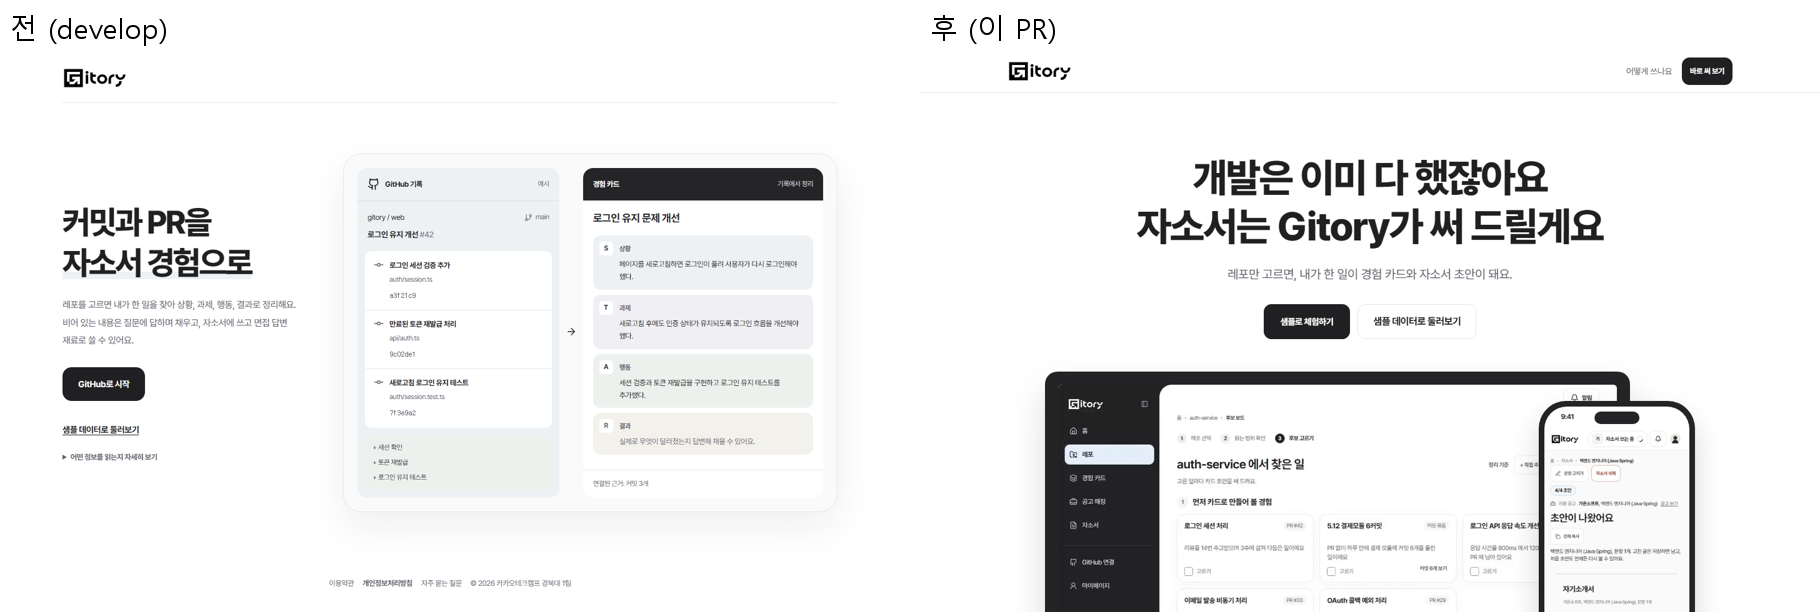
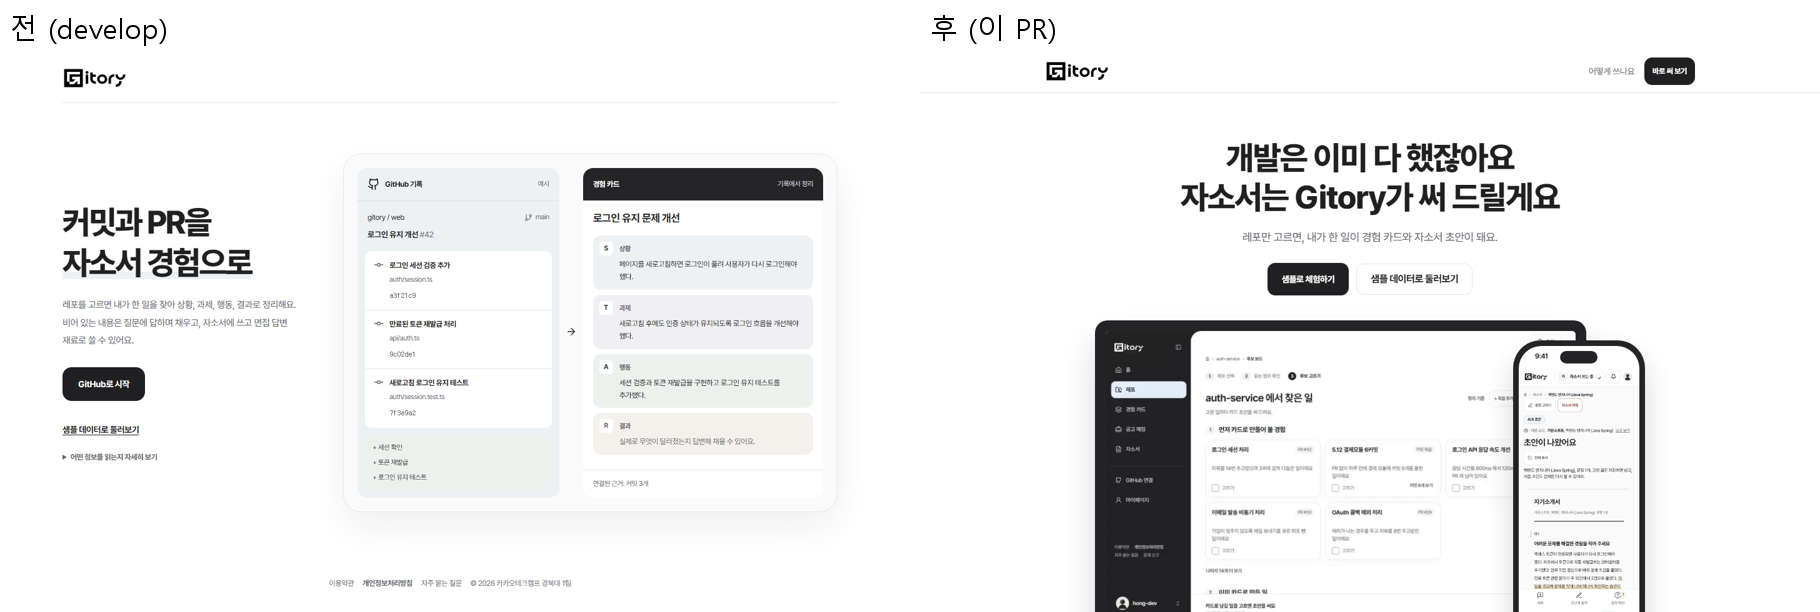
fix(frontend): 첫 화면 크기를 한눈에 들어오게 줄이고 강조색을 회색 계열로 통일
- 본문 폭 1200 → 1080px, 제목과 본문 글자, 버튼, 구간 여백을 약 80% 로 줄임
- 채워지는 문장은 150vh 동안 머물고 글자를 46px 로
- 공감 카드는 글을 세로 가운데에 두고 높이를 맞춤
- 경험 카드 단계의 하늘색 아이콘 칸을 다른 칸과 같은 회색으로

Changed region(s): [[0.5538, 0.2173, 0.9538, 1.0], [0.8615, 0.0931, 0.9538, 0.1552], [0.5538, 0.0931, 0.6154, 0.1552]]

diff --git a/frontend/src/styles/landing-scroll.css b/frontend/src/styles/landing-scroll.css
@@ -3,7 +3,7 @@
  * 첫 화면은 사용자가 다크 테마를 켜 두어도 밝은 테마로 보인다(LandingPage 가 열려 있는 동안 data-theme 을 뗀다).
  */
 .landing.lp { display: block; min-height: 100vh; padding: 0; gap: 0; background: var(--bg-paper); color: var(--text-primary); overflow-x: clip; word-break: keep-all; }
-.lp .lp-wrap { width: 100%; max-width: 1200px; margin-inline: auto; padding-inline: 20px; }
+.lp .lp-wrap { width: 100%; max-width: 1080px; margin-inline: auto; padding-inline: 20px; }
 .lp-center { text-align: center; }
 
 /* 상단 바: 스크롤하면 옅은 그림자 */
@@ -18,22 +18,22 @@
 .lp-top__link:hover { color: var(--text-primary); }
 
 /* 히어로 */
-.lp .lp-hero { display: block; width: 100%; max-width: none; padding: clamp(56px, 8vw, 96px) 0 clamp(40px, 5vw, 64px); background: var(--bg-surface); border-bottom: 1px solid var(--border-default); grid-template-columns: none; }
+.lp .lp-hero { display: block; width: 100%; max-width: none; padding: clamp(48px, 6vw, 72px) 0 clamp(36px, 4vw, 52px); background: var(--bg-surface); border-bottom: 1px solid var(--border-default); grid-template-columns: none; }
 .lp-hero__in { display: flex; flex-direction: column; align-items: center; text-align: center; }
-.lp .lp-h1 { margin: 0; max-width: none; font-size: clamp(30px, 6.2vw, 64px); line-height: 1.22; font-weight: var(--weight-heavy); letter-spacing: -.035em; text-align: center; text-wrap: balance; }
+.lp .lp-h1 { margin: 0; max-width: none; font-size: clamp(28px, 4.4vw, 52px); line-height: 1.22; font-weight: var(--weight-heavy); letter-spacing: -.035em; text-align: center; text-wrap: balance; }
 .lp .lp-h1 > span { display: block; text-decoration: none; }
 .lp-hword { display: inline-block; animation: lp-word .7s cubic-bezier(.2, .7, .2, 1) both; animation-delay: calc(var(--i) * 70ms + 120ms); }
 .landing[data-intro="playing"] .lp-hword, .landing[data-intro="playing"] .lp-hero__stage { animation-play-state: paused; }
-.lp .lp-lead { max-width: 680px; margin: 22px auto 0; color: var(--text-secondary); font-size: clamp(16px, 1.9vw, 20px); line-height: 1.6; text-wrap: balance; }
-.lp .lp-actions { margin-top: 32px; display: flex; flex-wrap: wrap; justify-content: center; align-items: center; gap: 12px; }
-.lp .lp-actions .btn { min-height: 56px; padding-inline: 26px; border-radius: 12px; }
+.lp .lp-lead { max-width: 640px; margin: 18px auto 0; color: var(--text-secondary); font-size: clamp(16px, 1.5vw, 18px); line-height: 1.6; text-wrap: balance; }
+.lp .lp-actions { margin-top: 26px; display: flex; flex-wrap: wrap; justify-content: center; align-items: center; gap: 12px; }
+.lp .lp-actions .btn { min-height: 50px; padding-inline: 22px; border-radius: 12px; }
 .lp .lp-actions .sample-link { margin: 0; }
-.lp .lp-actions .sample-link__btn { min-height: 56px; padding: 0 24px; border: 1px solid var(--border-default); border-radius: 12px; background: var(--bg-surface); color: var(--text-primary); font-size: 16px; font-weight: var(--weight-bold); text-decoration: none; cursor: pointer; }
+.lp .lp-actions .sample-link__btn { min-height: 50px; padding: 0 22px; border: 1px solid var(--border-default); border-radius: 12px; background: var(--bg-surface); color: var(--text-primary); font-size: 16px; font-weight: var(--weight-bold); text-decoration: none; cursor: pointer; }
 .lp .lp-actions .sample-link__btn:hover { background: var(--bg-subtle); }
 .lp .landing-notice { margin: 16px 0 0; }
 .lp .lp-perm { margin-top: 14px; color: var(--text-secondary); font-size: 14px; text-align: left; }
 .lp .lp-perm summary { cursor: pointer; text-align: center; padding: 8px; }
-.lp-hero__stage { position: relative; width: 100%; max-width: 1040px; margin-top: 52px; padding-right: 9%; animation: lp-rise 1s cubic-bezier(.2, .7, .2, 1) .55s both; }
+.lp-hero__stage { position: relative; width: 100%; max-width: 880px; margin-top: 40px; padding-right: 9%; animation: lp-rise 1s cubic-bezier(.2, .7, .2, 1) .55s both; }
 .lp-hero__phone { position: absolute; right: 0; bottom: 0; width: 24%; }
 
 /* 기기 틀 */
@@ -51,47 +51,46 @@
 .lp-phone__home::after { content: ''; width: 34%; height: 4px; border-radius: 999px; background: var(--text-primary); }
 
 /* 흐르는 띠 */
-.lp-strip { overflow: hidden; padding: 20px 0; background: var(--bg-surface); border-bottom: 1px solid var(--border-default); }
+.lp-strip { overflow: hidden; padding: 16px 0; background: var(--bg-surface); border-bottom: 1px solid var(--border-default); }
 .lp-strip__track { display: flex; width: max-content; animation: lp-marquee 28s linear infinite; }
-.lp-strip__row { display: flex; gap: 40px; padding-right: 40px; white-space: nowrap; font-size: clamp(16px, 2vw, 20px); font-weight: var(--weight-bold); }
+.lp-strip__row { display: flex; gap: 36px; padding-right: 36px; white-space: nowrap; font-size: clamp(15px, 1.5vw, 17px); font-weight: var(--weight-bold); }
 .lp-strip__row span { display: inline-flex; align-items: center; gap: 40px; }
 .lp-strip__row i { width: 10px; height: 10px; border-radius: 50%; background: var(--accent-decoration); }
 
 /* 채워지는 문장: PC 는 화면에 잠깐 머물고, 휴대폰은 지나가며 채운다 */
-.lp-ink { position: relative; height: 160vh; }
+.lp-ink { position: relative; height: 150vh; }
 .lp-ink__stage { position: sticky; top: 0; height: 100vh; display: flex; align-items: center; padding-inline: 20px; }
-.lp-ink__text { max-width: 1200px; margin: 0 auto; text-align: center; font-size: clamp(28px, 4.4vw, 60px); line-height: 1.3; font-weight: var(--weight-heavy); letter-spacing: -.035em; }
+.lp-ink__text { max-width: 1000px; margin: 0 auto; text-align: center; font-size: clamp(26px, 3.6vw, 46px); line-height: 1.3; font-weight: var(--weight-heavy); letter-spacing: -.035em; }
 .lp-ink__line { display: block; }
 .lp[data-motion="on"] [data-ink-part] { color: color-mix(in srgb, var(--text-primary) 20%, transparent); transition: color .35s ease-out; }
 .lp[data-motion="on"] [data-ink-part][data-inked] { color: var(--text-primary); }
 
 /* 공통 구간 */
-.lp-sec { padding: clamp(80px, 10vw, 120px) 0; }
-.lp-eyebrow { margin: 0; color: var(--text-secondary); font-size: 16px; font-weight: var(--weight-bold); }
-.lp-h2 { margin: 14px 0 0; font-size: clamp(28px, 4.4vw, 46px); line-height: 1.3; font-weight: var(--weight-heavy); letter-spacing: -.035em; text-wrap: balance; }
-.lp-h3 { margin: 18px 0 0; font-size: clamp(26px, 3.6vw, 38px); line-height: 1.32; font-weight: var(--weight-heavy); letter-spacing: -.035em; }
+.lp-sec { padding: clamp(64px, 7vw, 96px) 0; }
+.lp-eyebrow { margin: 0; color: var(--text-secondary); font-size: 14px; font-weight: var(--weight-bold); }
+.lp-h2 { margin: 14px 0 0; font-size: clamp(26px, 3.4vw, 38px); line-height: 1.3; font-weight: var(--weight-heavy); letter-spacing: -.035em; text-wrap: balance; }
+.lp-h3 { margin: 18px 0 0; font-size: clamp(24px, 2.7vw, 30px); line-height: 1.32; font-weight: var(--weight-heavy); letter-spacing: -.035em; }
 .lp-line { display: block; }
-.lp-body { margin: 18px 0 0; color: var(--text-secondary); font-size: clamp(16px, 1.7vw, 20px); line-height: 1.65; text-wrap: pretty; }
-.lp-grid3 { margin-top: clamp(40px, 6vw, 56px); display: grid; grid-template-columns: repeat(3, minmax(0, 1fr)); gap: 16px; }
-.lp-quote { padding: 32px 28px; text-align: center; border: 1px solid var(--border-default); border-radius: var(--radius-xl); background: var(--bg-surface); font-size: clamp(20px, 2.4vw, 26px); line-height: 1.4; font-weight: var(--weight-heavy); }
-.lp-quote small { display: block; margin-top: 14px; color: var(--text-on-feature-muted); font-size: 16px; font-weight: var(--weight-regular); }
+.lp-body { margin: 14px 0 0; color: var(--text-secondary); font-size: clamp(15px, 1.3vw, 17px); line-height: 1.65; text-wrap: pretty; }
+.lp-grid3 { margin-top: clamp(28px, 4vw, 40px); display: grid; grid-template-columns: repeat(3, minmax(0, 1fr)); gap: 16px; }
+.lp-quote { display: flex; flex-direction: column; justify-content: center; min-height: 150px; padding: 24px; text-align: center; border: 1px solid var(--border-default); border-radius: var(--radius-xl); background: var(--bg-surface); font-size: clamp(18px, 1.8vw, 21px); line-height: 1.4; font-weight: var(--weight-heavy); }
+.lp-quote small { display: block; margin-top: 10px; color: var(--text-on-feature-muted); font-size: 14px; font-weight: var(--weight-regular); }
 .lp-quote--ink { border-color: transparent; background: var(--bg-feature); color: var(--text-on-feature); }
 
 /* 01~05 */
 .lp-how { padding-bottom: 24px; }
-.lp-step { padding: clamp(40px, 6vw, 64px) 0; }
-.lp-step__in { display: flex; flex-wrap: wrap; align-items: center; gap: clamp(28px, 5vw, 56px); }
+.lp-step { padding: clamp(28px, 4vw, 44px) 0; }
+.lp-step__in { display: flex; flex-wrap: wrap; align-items: center; gap: clamp(28px, 4.5vw, 56px); }
 .lp-step--flip .lp-step__in { flex-direction: row-reverse; }
 .lp-step__copy { flex: 1 1 320px; min-width: 0; }
-.lp-step__media { flex: 1.5 1 520px; min-width: 0; }
-.lp-chip { display: inline-block; margin: 0; padding: 6px 12px; border-radius: 999px; background: var(--bg-ink-solid); color: var(--text-on-ink); font-size: 14px; font-weight: var(--weight-bold); white-space: pre; }
+.lp-step__media { flex: 1.4 1 480px; min-width: 0; }
+.lp-chip { display: inline-block; margin: 0; padding: 5px 11px; border-radius: 999px; background: var(--bg-ink-solid); color: var(--text-on-ink); font-size: 13px; font-weight: var(--weight-bold); white-space: pre; }
 .lp-pane { display: flex; justify-content: center; padding: 44px 20px 0; border-radius: var(--radius-xl); background: var(--bg-subtle); overflow: hidden; }
-.lp-pane--accent { background: var(--bg-accent); }
 .lp-pane .lp-phone { width: min(72%, 340px); margin-bottom: -40px; }
 .lp-callout { margin-top: 26px; display: flex; align-items: center; gap: 14px; padding: 18px 20px; border: 1px solid var(--border-default); border-radius: var(--radius-lg); background: var(--bg-surface); }
 .lp-callout p { margin: 0; font-size: 16px; font-weight: var(--weight-bold); line-height: 1.5; }
 .lp-callout p span { color: var(--text-secondary); font-weight: var(--weight-regular); }
-.lp-callout__icon { flex: none; width: 40px; height: 40px; display: grid; place-items: center; border-radius: var(--radius-md); background: var(--bg-accent); color: var(--border-accent); }
+.lp-callout__icon { flex: none; width: 40px; height: 40px; display: grid; place-items: center; border-radius: var(--radius-md); background: var(--bg-subtle); color: var(--text-primary); }
 .lp-chat { margin-top: 26px; max-width: 420px; display: flex; flex-direction: column; gap: 10px; }
 .lp-chat p { margin: 0; padding: 13px 18px; font-size: 16px; font-weight: var(--weight-bold); }
 .lp-chat__ask { align-self: flex-start; border: 1px solid var(--border-default); border-radius: 16px 16px 16px 4px; background: var(--bg-surface); }
@@ -106,22 +105,22 @@
 /* AI 채팅과 비교 */
 .lp-compare { background: var(--bg-feature); color: var(--text-on-feature); }
 .lp-compare .lp-eyebrow { color: var(--accent-decoration); }
-.lp-compare__cols { margin-top: clamp(40px, 6vw, 64px); display: grid; grid-template-columns: repeat(2, minmax(0, 1fr)); gap: 16px; }
+.lp-compare__cols { margin-top: clamp(28px, 4vw, 44px); display: grid; grid-template-columns: repeat(2, minmax(0, 1fr)); gap: 16px; }
 .lp-compare__col { padding: clamp(24px, 3vw, 36px); border-radius: var(--radius-xl); background: color-mix(in srgb, var(--text-on-feature) 6%, transparent); }
 .lp-compare__col--ours { background: var(--bg-surface); color: var(--text-primary); }
 .lp-compare__label { margin: 0; color: var(--text-on-feature-muted); font-size: 16px; font-weight: var(--weight-bold); }
 .lp-compare__col--ours .lp-compare__label { color: var(--text-secondary); }
 .lp-compare ol, .lp-compare ul { margin: 22px 0 0; padding: 0; list-style: none; display: flex; flex-direction: column; gap: 14px; }
-.lp-compare li { display: flex; gap: 12px; align-items: flex-start; font-size: clamp(16px, 1.6vw, 18px); line-height: 1.5; }
+.lp-compare li { display: flex; gap: 12px; align-items: flex-start; font-size: 16px; line-height: 1.5; }
 .lp-num, .lp-check { flex: none; width: 28px; height: 28px; display: grid; place-items: center; border-radius: 50%; font-size: 14px; font-weight: var(--weight-bold); }
 .lp-num { background: color-mix(in srgb, var(--text-on-feature) 12%, transparent); color: var(--text-on-feature-muted); }
 .lp-check { background: var(--bg-ink-solid); color: var(--text-on-ink); }
 .lp-compare__col--ours li { font-weight: var(--weight-bold); }
 
 /* 시작 권유 */
-.lp-closing { padding-top: clamp(80px, 10vw, 120px); padding-bottom: clamp(64px, 8vw, 96px); }
+.lp-closing { padding-top: clamp(64px, 7vw, 96px); padding-bottom: clamp(56px, 6vw, 80px); }
 .lp-closing__box { display: flex; flex-wrap: wrap; align-items: center; overflow: hidden; border-radius: 24px; background: var(--bg-feature); color: var(--text-on-feature); }
-.lp-closing__copy { flex: 1.2 1 440px; min-width: 0; padding: clamp(40px, 5vw, 64px); }
+.lp-closing__copy { flex: 1.2 1 420px; min-width: 0; padding: clamp(36px, 4vw, 52px); }
 .lp-closing .lp-h2 { margin: 0; }
 .lp-closing .lp-body { color: var(--text-on-feature-muted); }
 .lp-closing .lp-actions { justify-content: flex-start; }

diff --git a/frontend/docs/2026-11-11-LANDING_SCROLL.md b/frontend/docs/2026-11-11-LANDING_SCROLL.md
@@ -7,7 +7,7 @@
 
 1. **히어로**(가운데 정렬): "개발은 이미 다 했잖아요 / 자소서는 Gitory가 써 드릴게요". 노트북 틀 안에서 실제 화면 시연 영상(16초, 후보 고르기 → 경험 카드 → 공고 → 자소서)이 반복되고 폰 화면이 겹친다. 휴대폰 폭에서는 노트북을 빼고 폰 하나만 크게.
 2. **흐르는 띠**: 내가 한 일 찾기, 경험 정리, 자소서 초안, 공고 맞춰 보기, 면접 대비, 로그인 없이 체험.
-3. **채워지는 문장**(가운데 정렬, PC 세 줄): 스크롤한 만큼 회색 구절이 검게 채워진다. PC는 160vh 동안 화면에 머물고(예전 시안 220vh는 막힌 느낌이라 줄임), 휴대폰은 고정 없이 지나가며 채운다.
+3. **채워지는 문장**(가운데 정렬, PC 세 줄): 스크롤한 만큼 회색 구절이 검게 채워진다. PC는 150vh 동안 화면에 머물고(예전 시안 220vh는 막힌 느낌이라 줄임), 휴대폰은 고정 없이 지나가며 채운다.
 4. **공감**: "이 프로젝트에서 내가 뭘 했더라?", "이걸 왜 이렇게 구현했었지?", "답은 이미 내 커밋에 있어요".
 5. **01~05**: 레포 고르기, 경험 카드, 되묻기, 공고 매칭, 자소서. 설명은 한 문장씩. PC 우선 서비스라 다섯 단계 모두 PC 화면(노트북 틀)으로 보여 준다.
 6. **AI 채팅과 다른 점**: "AI 채팅으로 쓰면"(직접 찾고 붙여 넣고 걸러 내고 대조) 대 "Gitory로 쓰면".
